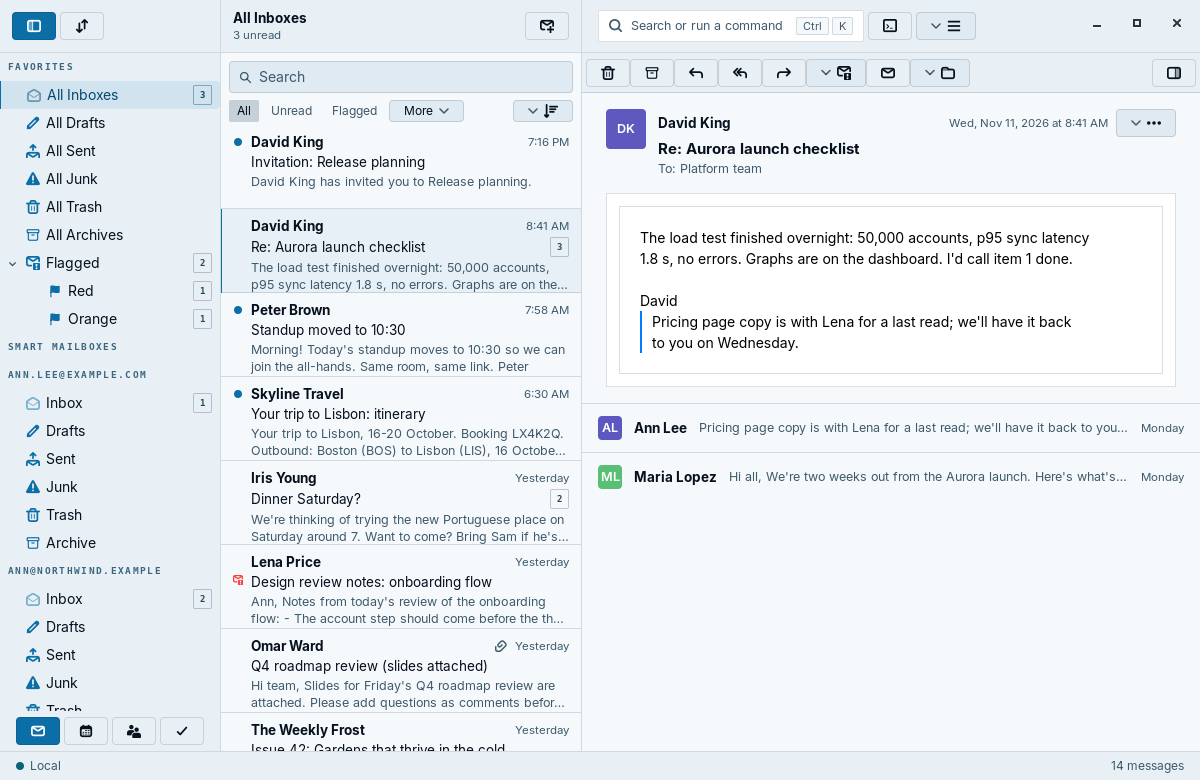
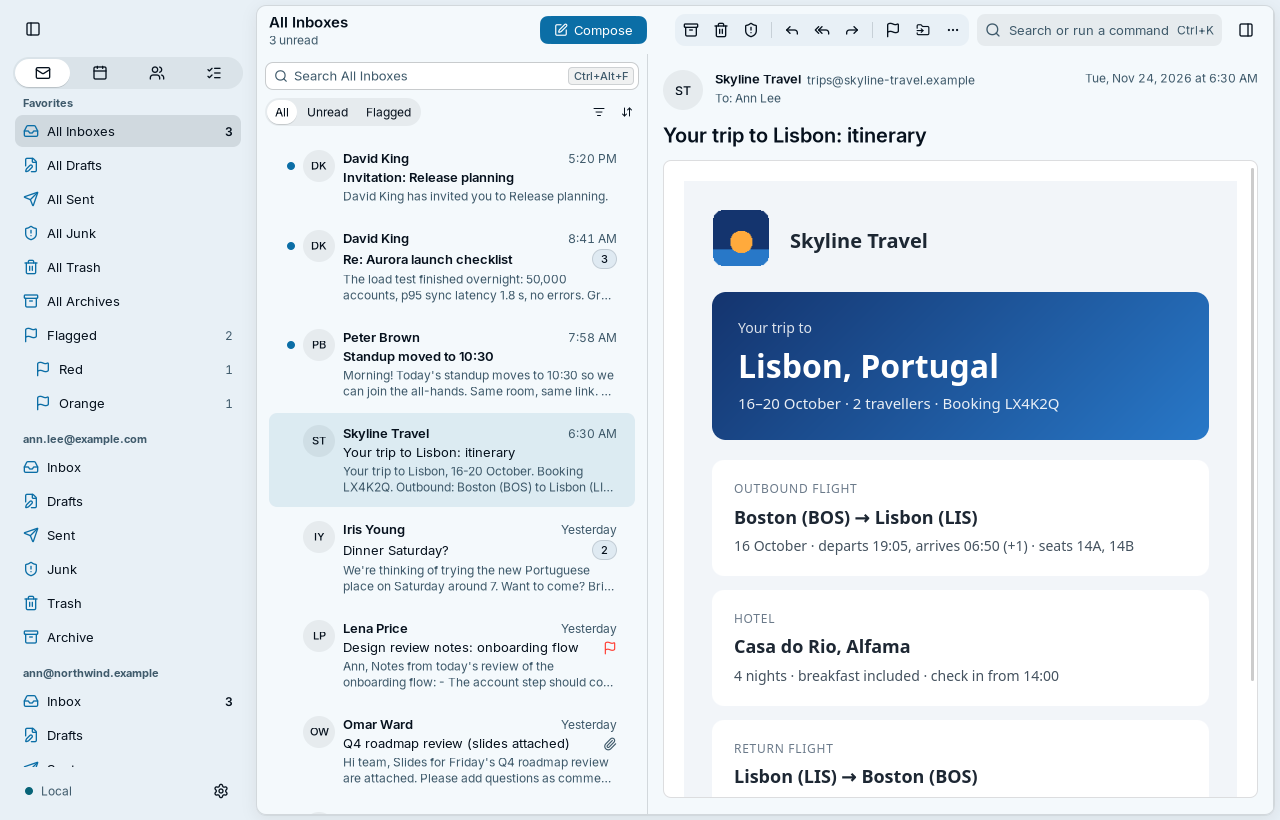
feat(flatpak): start the NSGo client by default
The Flatpak's launcher starts the NSGo client (ADR-0063), and
FROSTMAIL_UI=mygo starts the MyGo client, which the Flatpak holds for 1
release. The NSGo client's package takes the released app's id in place
of the preview's. The README's and the metainfo's pictures are the NSGo
suite's.

diff --git a/README.md b/README.md
@@ -32,7 +32,10 @@ also serve a phone or a browser on your tailnet through
   Me. [M5](docs/plans/0008-m5-mail-app-parity.md)
 - **maild** is a per-user Go daemon that owns sync, a SQLite cache with
   full-text search, and a JSON-RPC socket. [Overview](docs/design/overview.md)
-- **The app** is a native Go app on MyGo and frostui.
+- **The app** is a native Go app on NSGo and Frostyard's kit
+  ([ADR-0063](docs/adr/0063-make-the-nsgo-client-the-only-client.md)). The
+  earlier client, on MyGo and frostui, is still the Windows installer's
+  program, and the Flatpak holds it for 1 more release.
   [Desktop design](docs/design/desktop.md)
 - **mailctl** is a command-line client of the same socket.
 - **Mail in lodge:** lodge serves a React web app of the same mail, built
@@ -43,15 +46,16 @@ flags, threads and an HTML itinerary in the reader](docs/images/main.png)
 
 | | |
 | --- | --- |
-| ![Frostyard light, reading a conversation](docs/images/main-light.png) | ![Searching every mailbox for “aurora”](docs/images/search.png) |
-| ![Replying in a compose window](docs/images/compose.png) | ![Account settings](docs/images/settings.png) |
-| ![People: a contact with recent mail and upcoming events](docs/images/people.png) | ![The Calendar's week with an event's details](docs/images/calendar.png) |
-| ![Tasks: lists, a subtask, due dates and the task pane](docs/images/tasks.png) | ![Mail with the To-Do bar: the month, what is next and what is due](docs/images/todo-bar.png) |
-| ![An invitation answered from the reader](docs/images/invitation.png) | ![The Calendar's month with the accepted invitation's details](docs/images/calendar-month.png) |
+| ![Frostyard light, reading a message](docs/images/main-light.png) | ![Several messages chosen, for the toolbar to act on](docs/images/search.png) |
+| ![Writing a message](docs/images/compose.png) | ![Settings](docs/images/settings.png) |
+| ![People](docs/images/people.png) | ![The Calendar's week, laid out by time](docs/images/calendar.png) |
+| ![Tasks](docs/images/tasks.png) | ![Mail with the To-Do Bar](docs/images/todo-bar.png) |
+| ![An invitation in the reader](docs/images/invitation.png) | ![The Calendar's month](docs/images/calendar-month.png) |
 
-<sub>The screenshots show the native desktop app on Linux, in its Frostyard
-theme and once in Frostyard light, on made-up mail
-(`tools/uifixture/showcase`).</sub>
+<sub>The screenshots show the desktop app on Linux, in Frostyard light and
+once in the Frostyard theme, on made-up mail (`tools/uifixture/showcase`).
+They are the app's own test suite's pictures
+(`cmd/frostmail-nsgo/comparison/linux`).</sub>
 
 ## Install
 
@@ -118,7 +122,7 @@ Linux, Windows and Lodge can run the same Go workspace against maild. Mail, draf
 | Build | How to open it |
 | --- | --- |
 | Linux checkout | Run `make nsgo-build`, start maild, then run `build/frostmail-nsgo`. |
-| Candidate Flatpak | Run `flatpak run --env=FROSTMAIL_UI=nsgo org.frostyard.Frostmail`. |
+| Flatpak | It is the app the Flatpak opens. `flatpak run --env=FROSTMAIL_UI=mygo org.frostyard.Frostmail` opens the MyGo client, which the Flatpak holds for 1 more release. |
 | Candidate Windows installer | Open `frostmail-nsgo.exe` from the Frostmail installation directory. |
 | Lodge | Run `make nsgo-lodge-app` and use `build/nsgo-lodge/apps/mail` as the Mail app directory in a test Lodge. It uses the signed-in Lodge session. |
 

diff --git a/docs/design/testing.md b/docs/design/testing.md
@@ -317,35 +317,30 @@ commands (`scripts/seal_test.go`, `scripts/move_test.go`).
 ## README screenshots
 
 The README's pictures (`docs/images`, which the Flatpak's metainfo also
-names) are the native app in real windows on the showcase, made-up mail,
-contacts, calendars and tasks (`tools/uifixture/showcase`). No make target
-takes them yet: plan 0015 lists `make screenshots` as not done. Neither
-`ui.Tester` nor the automation plugin's `capture` draws the reader's web
-view, so the pictures come from the desktop's compositor. They were taken
-on 2026-11-11 like this:
+names) are the NSGo client's kept pictures
+(`cmd/frostmail-nsgo/comparison/linux`), copied under the names the README
+and the metainfo link: the app in a real GTK 4 window under Xvfb, on the
+showcase's made-up mail, contacts, calendars and tasks
+(`tools/uifixture/showcase`). `make nsgo-pictures` takes the kept pictures
+again; a change of one that the README shows copies it to `docs/images`
+in the same change. No make target does the copy.
 
-1. `go run ./tools/uifixture -out DATA -showcase tools/uifixture/showcase`,
-   then maild on `DATA` with `FROSTMAIL_SYNC=off` and
-   `FROSTMAIL_SECRETS=file`, and the automation build of the app
-   (`go build -tags automation ./cmd/frostmail`), each picture on a fresh
-   copy, with the e2e harness's private paths (`isolated` in
-   `internal/desktop/e2e/harness_test.go`).
-2. The app runs on a private headless GNOME Shell (`gnome-shell --headless
-   --wayland --no-x11 --virtual-monitor 1600x1100` under `dbus-run-session`,
-   with its own `HOME` and `XDG_RUNTIME_DIR`), out of the overview (the
-   Shell's `OverviewActive` property set to false). The Shell's
-   `org.gnome.desktop.interface` `color-scheme` picks the theme:
-   `prefer-dark` for Frostyard, `prefer-light` for Frostyard light, which
-   also takes `GTK_THEME=Adwaita` because Snow's GTK 3 theme is dark only
-   and would draw the window buttons white.
-3. `mygo-automation` (`github.com/egoist/mygo/plugins/automation/cmd/mygo-automation`,
-   at go.mod's MyGo) drives each scene, then moves the pointer off the
-   rows it clicked, so that none shows its hover actions.
-4. The Shell's `org.gnome.Shell.Screenshot.ScreenshotWindow` takes the
-   focused window. The Shell answers only known callers, so the caller
-   owns `org.gnome.Screenshot` on the private bus. The picture is cropped
-   to the window's opaque frame (1200 × 780 for the main window), without
-   its shadow, and recompressed losslessly.
+| `docs/images` | The kept picture |
+| --- | --- |
+| `main.png` | `dark-mail-message.png` |
+| `main-light.png` | `mail-message.png` |
+| `search.png` | `mail-several-selected.png` |
+| `compose.png` | `compose.png` |
+| `settings.png` | `module-Settings.png` |
+| `people.png` | `module-People.png` |
+| `calendar.png` | `calendar-week.png` |
+| `calendar-month.png` | `module-Calendar.png` |
+| `tasks.png` | `module-Tasks.png` |
+| `todo-bar.png` | `mail-todo-bar.png` |
+| `invitation.png` | `reader-invitation.png` |
+
+Until 2026-11-24 they were the MyGo client's, taken by hand from a
+headless GNOME Shell's compositor (plan 0015).
 
 ## Planned layers
 

diff --git a/AGENTS.md b/AGENTS.md
@@ -118,8 +118,9 @@ Settings on NSGo's settings view (`cmd/frostmail-nsgo/settings_view.go`),
 rows in the navigation (`cmd/frostmail-nsgo/modules.go`), are built. Of
 4e, the narrow layout and Lodge's web build are checked in a browser, and
 the style test of rule 2 is on with no exception (`TestNoLiteralLooks`;
-the paddings take the kit's spacing, `workspaceui/v0.4.0`); the README's
-pictures are left. The MyGo client stays the default.
+the paddings take the kit's spacing, `workspaceui/v0.4.0`), and the
+README's pictures are the NSGo suite's. Recipients on NSGo's tag input
+are left, which waits on NSGo.
 
 Plan 0017 ([NSGo as the only client](docs/plans/0017-nsgo-as-the-only-client.md))
 and [ADR-0063](docs/adr/0063-make-the-nsgo-client-the-only-client.md)
@@ -128,12 +129,15 @@ the default on the desktop, MyGo removed on Linux and Windows, then the
 React app's place in Lodge. The owner answered the plan's questions the
 same day. Of Phase 2, the NSGo client keeps its window, its panes' widths
 and how the list is shown (`cmd/frostmail-nsgo/window.go`), and records
-`bridge.socket_lost` as the MyGo client does, though no release stamps
-its version yet, and shows the first run's welcome
+`bridge.socket_lost` as the MyGo client does, under the release's version,
+and shows the first run's welcome
 (`cmd/frostmail-nsgo/welcome.go`), and lays the day and the week out by
 time, where a drag moves, resizes and draws an event
-(`cmd/frostmail-nsgo/calendar_time.go`). The package's id and the switch
-of the default are left, and the MyGo client is still the default.
+(`cmd/frostmail-nsgo/calendar_time.go`). Its package has the released
+app's id, and **the Flatpak's launcher starts it**: `FROSTMAIL_UI=mygo`
+starts the MyGo client, which the Flatpak holds for 1 release. No release
+holds this yet, and Phase 2's clean-install gate is not run. The Windows
+installer's program is still the MyGo client (Phase 3).
 
 ## Two kinds of agent work
 

diff --git a/docs/plans/0017-nsgo-as-the-only-client.md b/docs/plans/0017-nsgo-as-the-only-client.md
@@ -220,6 +220,21 @@ name MyGo.
     blocks; in a real window, a block drawn, moved 30 minutes, resized
     15 and moved a day in the week; the pictures). 2 pictures are new,
     the week and the day, and the agent looked at the week.
+- **The switch (2026-11-24), built; no release holds it.** The NSGo
+  client's package has the released app's id, `org.frostyard.Frostmail`
+  (it was the preview's). The Flatpak's launcher starts it, and
+  `FROSTMAIL_UI=mygo` starts the MyGo client. The README's and the
+  metainfo's pictures are the NSGo suite's (plan 0016, Phase 4).
+  - The Flatpak's smoke test holds the launcher: a start with no
+    `FROSTMAIL_UI` runs the NSGo client and no other, and
+    `FROSTMAIL_UI=mygo` the MyGo client, each with a notification's
+    arguments. It runs in the Flatpak's build, in CI.
+  - Not known, and what the gate is for: how the client behaves in the
+    real Flatpak (its storage under the new id, a second start handed
+    to the first, a notification's click, the tray), and a person's
+    first run in it.
+  - What is left of this phase is the owner's: a candidate tag, and
+    plan 0013's clean-install gate on it.
 - **Done when:** a fresh VM installs the candidate and its first run, an
   account's sign-in, a message read, written and sent, and a restart all
   happen in the NSGo client with no variable set.

diff --git a/docs/design/desktop.md b/docs/design/desktop.md
@@ -120,7 +120,11 @@ click and the move from a host maild.
 - **Layout.** `/app/bin/frostmail` is the launcher
   (`packaging/flatpak/frostmail.sh`, the manifest's `command`),
   `/app/bin/maild` and `/app/bin/mailctl` are static Go binaries, and
-  `/app/libexec/frostmail-app` is the native app, also a Go binary, with
+  `/app/libexec/frostmail-nsgo` is the app the launcher starts, the NSGo
+  client, and `/app/libexec/frostmail-app` the MyGo client, which
+  `FROSTMAIL_UI=mygo` starts for 1 release after the switch
+  ([ADR-0063](../adr/0063-make-the-nsgo-client-the-only-client.md)); both
+  are Go binaries, with
   `/app/libexec/frostmail-request-background` (a PyGObject helper) and
   `/app/libexec/frostmail-open` (a POSIX sh helper, `packaging/flatpak/open.sh`,
   which a notification's click runs).

diff --git a/docs/plans/0016-a-shared-look-for-the-nsgo-apps.md b/docs/plans/0016-a-shared-look-for-the-nsgo-apps.md
@@ -895,8 +895,11 @@ stand-ins of its panes with the control map's controls (rule 11):
       client's own frame, which painted no ground, is gone.
     - `make nsgo-test` passes. `make nsgo-live` on Xvfb's X11: 37
       passed. 34 of the 37 kept pictures changed.
-  - **Left of 4e:** the README's pictures, which stay the default
-    client's while that is the MyGo one.
+  - **The README's pictures (2026-11-24)** are the NSGo suite's, copied
+    to `docs/images`, with the switch of the default (plan 0017, Phase
+    2). Of this phase's "Done when", the control map's row of
+    recipients is still true: they are fields with suggestions, not
+    `ui.TagInput` (4c).
 
 ## Phase 5 — Frostnotes and PocketGo (M each, beside Phases 3 and 4)
 
